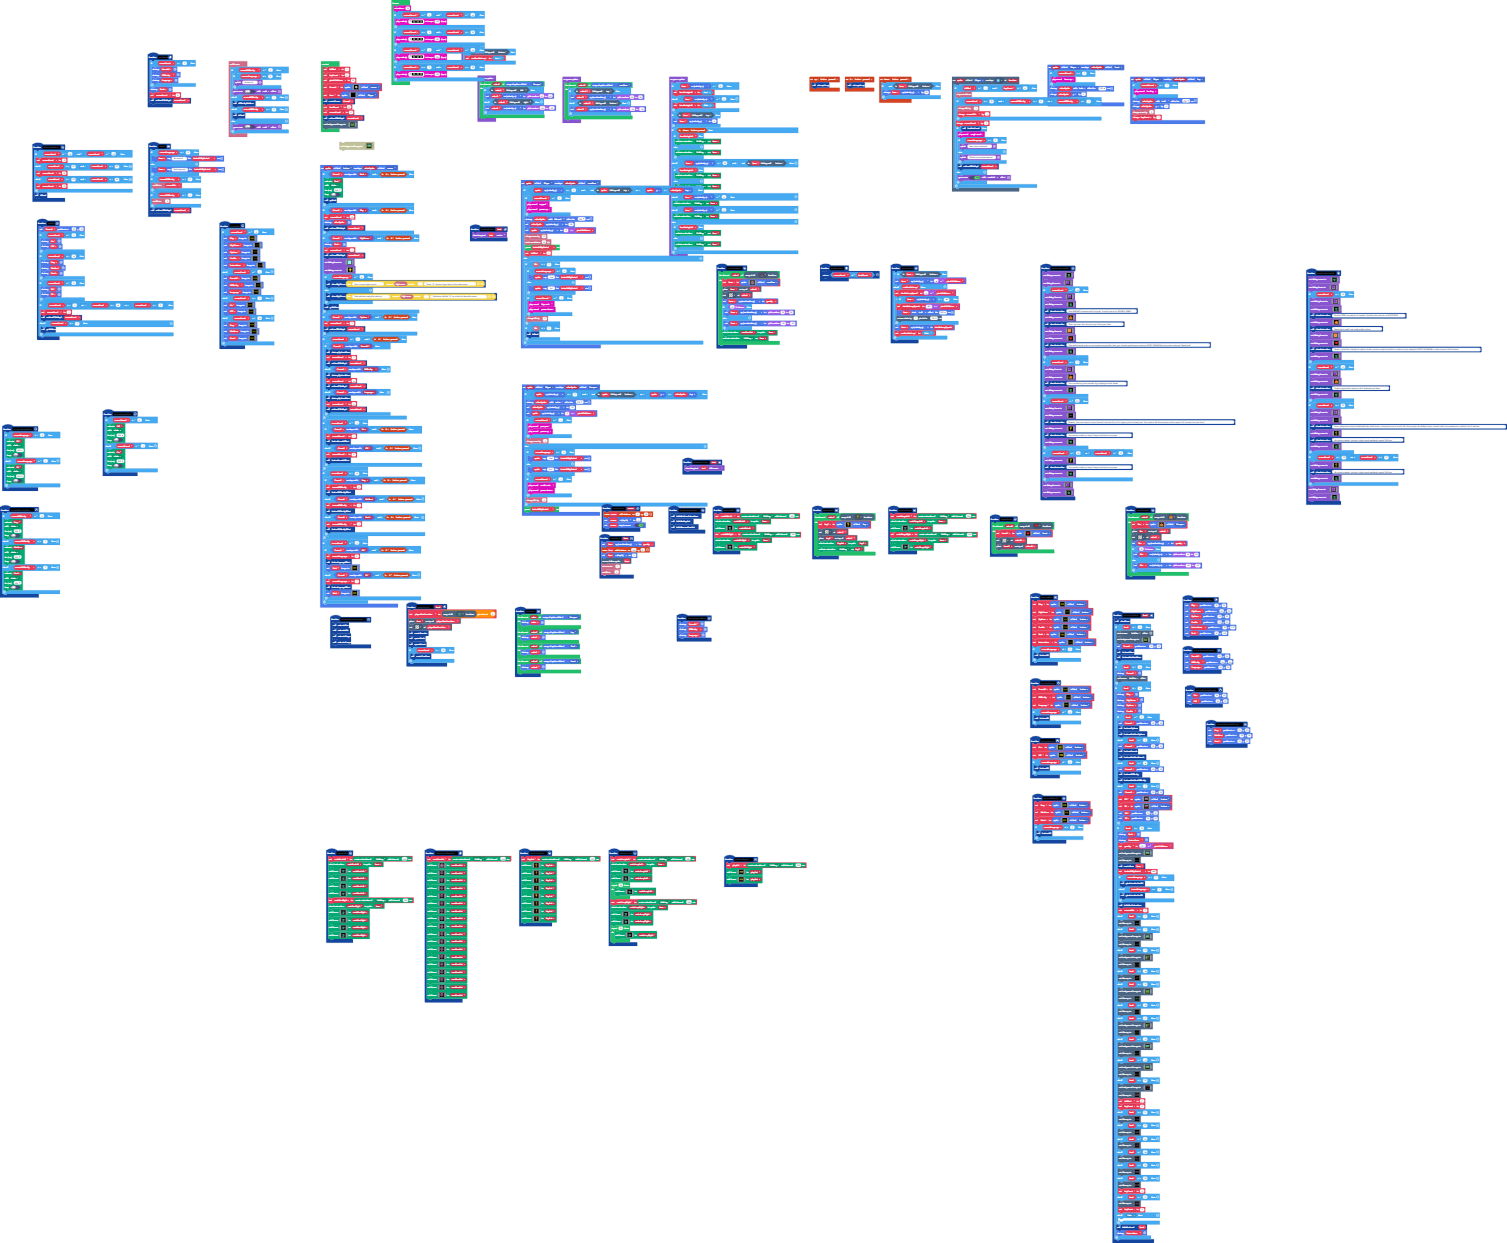
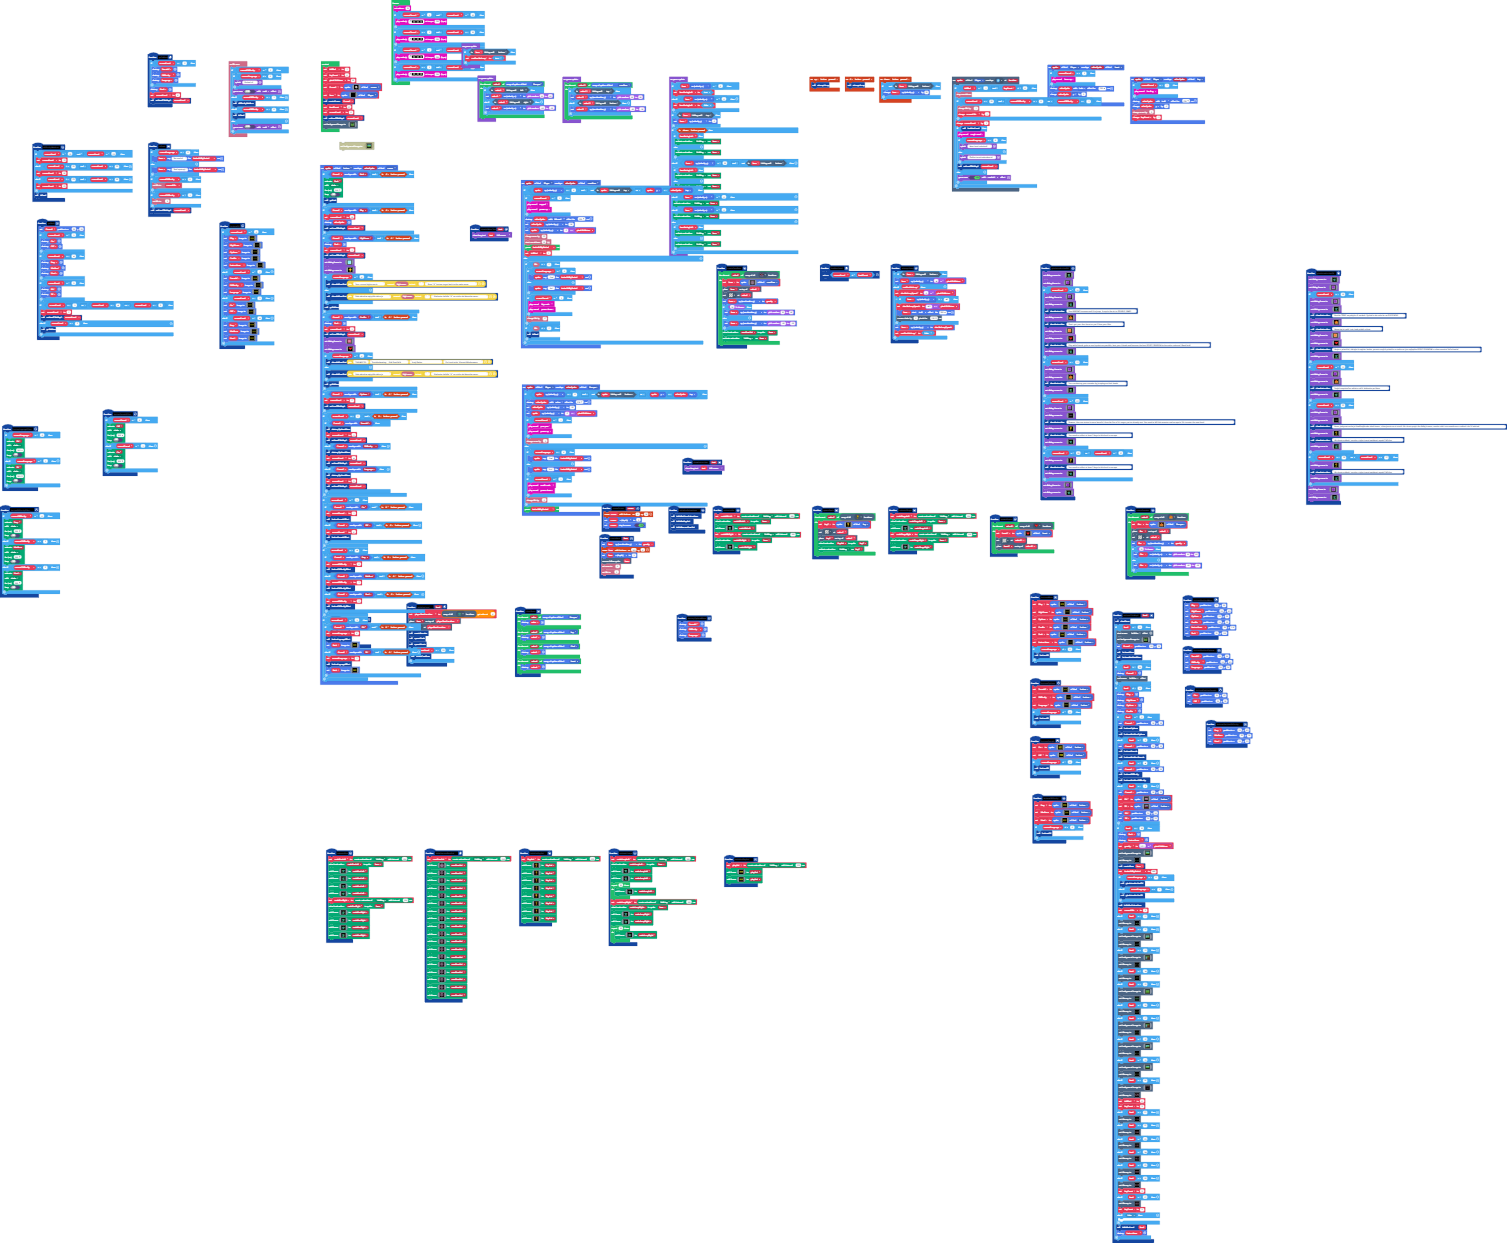
Working on credits.

Changed region(s): [[0.1871, 0.2446, 0.3431, 0.5503], [0.3119, 0.0306, 0.3431, 0.0611]]

diff --git a/main.ts b/main.ts
@@ -3090,9 +3090,56 @@ sprites.onOverlap(SpriteKind.button, SpriteKind.cursor, function (sprite, otherS
             . . . . 5 4 5 5 5 5 4 4 . . . . 
             `)
         if (currentLanguage == 0) {
-            showHighScore("Your current high score is " + convertToText(info.highScore()) + "." + " Press \"A\" button to get back to the main menu.")
+            showInMenuText("Your current high score is " + convertToText(info.highScore()) + "." + " Press \"A\" button to get back to the main menu.")
         } else {
-            showHighScore("Vaše aktuálne najvyššie skóre je " + convertToText(info.highScore()) + "." + " Stlačením tlačidla \"A\" sa vrátite do hlavného menu.")
+            showInMenuText("Vaše aktuálne najvyššie skóre je " + convertToText(info.highScore()) + "." + " Stlačením tlačidla \"A\" sa vrátite do hlavného menu.")
+        }
+        goToMenu()
+    }
+    if (Cursor0.overlapsWith(Credits) && controller.A.isPressed()) {
+        Back.destroy()
+        currentLevel = 1
+        setLevelTileMap0(currentLevel)
+        game.setDialogFrame(img`
+            3 3 3 3 3 3 3 3 3 3 3 3 3 3 3 3 3 
+            3 2 3 2 3 2 3 2 3 2 3 2 3 2 3 2 3 
+            3 3 2 3 3 3 2 3 3 3 2 3 3 3 2 3 3 
+            3 3 3 3 3 3 3 3 3 3 3 3 3 3 3 3 3 
+            3 2 3 2 3 3 3 3 3 3 3 3 3 2 3 2 3 
+            3 3 2 3 3 3 3 3 3 3 3 3 3 3 2 3 3 
+            3 3 3 3 3 3 3 3 3 3 3 3 3 3 3 3 3 
+            3 2 3 2 3 3 3 3 3 3 3 3 3 2 3 2 3 
+            3 3 2 3 3 3 3 3 3 3 3 3 3 3 2 3 3 
+            3 3 3 3 3 3 3 3 3 3 3 3 3 3 3 3 3 
+            3 2 3 2 3 3 3 3 3 3 3 3 3 2 3 2 3 
+            3 3 2 3 3 3 3 3 3 3 3 3 3 3 2 3 3 
+            3 3 3 3 3 3 3 3 3 3 3 3 3 3 3 3 3 
+            3 2 3 2 3 2 3 2 3 2 3 2 3 2 3 2 3 
+            3 3 2 3 3 3 2 3 3 3 2 3 3 3 2 3 3 
+            3 3 3 3 3 3 3 3 3 3 3 3 3 3 3 3 3 
+            `)
+        game.setDialogCursor(img`
+            . . . . . . . . . . . . . . . . 
+            . . f f f f . . . . f f f f . . 
+            . f 2 2 2 2 f . . f 2 2 2 2 f . 
+            f 2 2 2 2 2 2 f f 2 2 2 2 2 2 f 
+            f 2 2 2 2 2 2 2 2 2 2 2 4 2 2 f 
+            f 2 2 2 2 2 2 2 2 2 2 4 2 2 2 f 
+            f c 2 2 2 2 2 2 2 2 2 2 2 2 2 f 
+            . f c 2 2 2 2 2 2 2 2 2 2 2 f . 
+            . . f c 2 2 2 2 2 2 2 2 2 f . . 
+            . . . f c 2 2 2 2 2 2 2 f . . . 
+            . . . . f c 2 2 2 2 2 f . . . . 
+            . . . . . f c 2 2 2 f . . . . . 
+            . . . . . . f c c f . . . . . . 
+            . . . . . . . f f . . . . . . . 
+            . . . . . . . . . . . . . . . . 
+            . . . . . . . . . . . . . . . . 
+            `)
+        if (currentLanguage == 0) {
+            showInMenuText("THANKS TO: " + "Troubleshooting     Erik Zemčík & " + "Juraj Gacho                 " + "Co-Level artist  Vincent Wiedermann")
+        } else {
+            showInMenuText("Vaše aktuálne najvyššie skóre je " + convertToText(info.highScore()) + "." + " Stlačením tlačidla \"A\" sa vrátite do hlavného menu.")
         }
         goToMenu()
     }
@@ -3892,6 +3939,9 @@ function initializecaveBossAni () {
         ................................
         `)
 }
+function showInMenuText (text: string) {
+    game.showLongText(text, DialogLayout.Full)
+}
 sprites.onOverlap(SpriteKind.Player, SpriteKind.key, function (sprite, otherSprite) {
     if (currentSound == 1) {
         music.baDing.play()
@@ -4147,9 +4197,6 @@ function spawnGoals () {
         animation.attachAnimation(key2, KeyAni)
         animation.setAction(key2, ActionKind.Idle)
     }
-}
-function showHighScore (text: string) {
-    game.showLongText(text, DialogLayout.Center)
 }
 let heroFacingLeft = false
 let key2: Sprite = null
